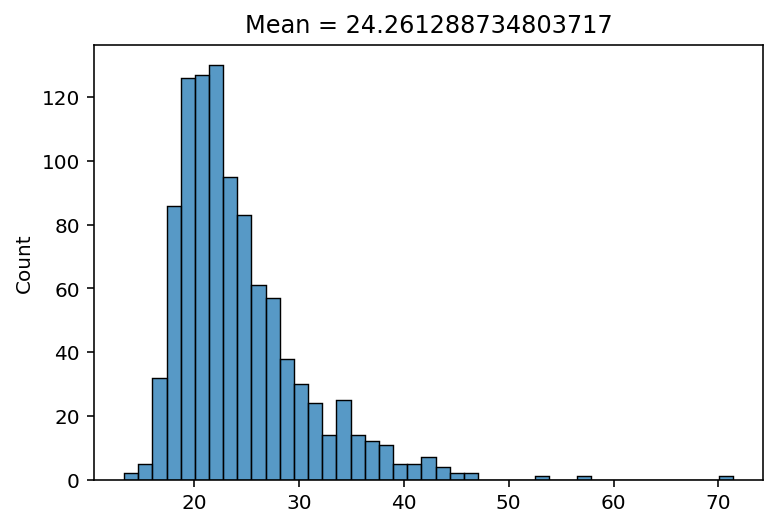
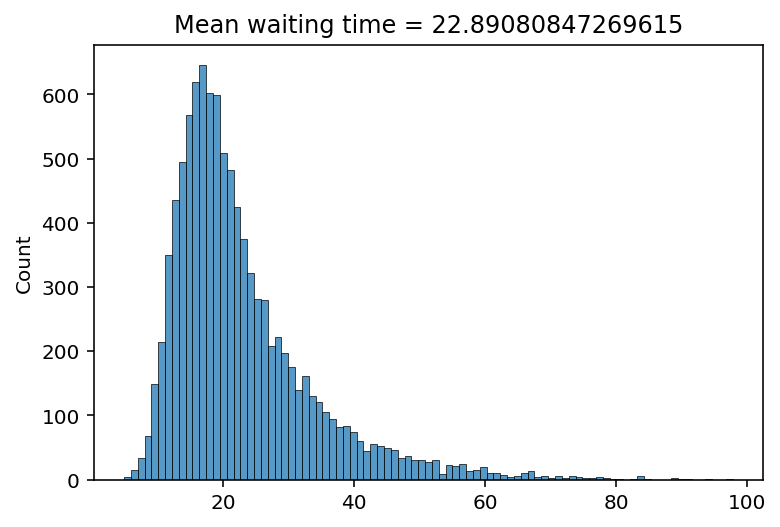
Implemented common random numbers

diff --git a/experiments/sched-sim.html b/experiments/sched-sim.html
@@ -119,6 +119,10 @@ code span.wa { color: #60a0b0; font-weight: bold; font-style: italic; } /* Warni
 
 <section id="setup" class="level2">
 <h2 class="anchored" data-anchor-id="setup">Setup</h2>
+<ul class="task-list">
+<li><input type="checkbox" disabled="">
+Implement common random number option in client generator</li>
+</ul>
 <div class="cell" data-execution_count="1">
 <div class="sourceCode cell-code" id="cb1"><pre class="sourceCode python code-with-copy"><code class="sourceCode python"><span id="cb1-1"><a href="#cb1-1" aria-hidden="true" tabindex="-1"></a><span class="co"># Setup</span></span>
 <span id="cb1-2"><a href="#cb1-2" aria-hidden="true" tabindex="-1"></a><span class="co">## Libraries</span></span>
@@ -129,69 +133,82 @@ code span.wa { color: #60a0b0; font-weight: bold; font-style: italic; } /* Warni
 <span id="cb1-7"><a href="#cb1-7" aria-hidden="true" tabindex="-1"></a></span>
 <span id="cb1-8"><a href="#cb1-8" aria-hidden="true" tabindex="-1"></a><span class="co">## Functions</span></span>
 <span id="cb1-9"><a href="#cb1-9" aria-hidden="true" tabindex="-1"></a></span>
-<span id="cb1-10"><a href="#cb1-10" aria-hidden="true" tabindex="-1"></a><span class="co">### Client generator</span></span>
-<span id="cb1-11"><a href="#cb1-11" aria-hidden="true" tabindex="-1"></a><span class="kw">def</span> generate_client(cts, sts, pct, ns<span class="op">=</span><span class="dv">0</span>):</span>
-<span id="cb1-12"><a href="#cb1-12" aria-hidden="true" tabindex="-1"></a>  ct <span class="op">=</span> np.random.choice(cts, size <span class="op">=</span> <span class="dv">1</span>, p<span class="op">=</span>pct)[<span class="dv">0</span>] <span class="co"># generate random client type</span></span>
-<span id="cb1-13"><a href="#cb1-13" aria-hidden="true" tabindex="-1"></a>  st <span class="op">=</span> np.random.binomial(n<span class="op">=</span><span class="dv">1</span>, p<span class="op">=</span><span class="dv">1</span><span class="op">-</span>ns)<span class="op">*</span>np.random.choice(sts, size <span class="op">=</span> <span class="dv">1</span>)[<span class="dv">0</span>] <span class="co"># generate random service time</span></span>
-<span id="cb1-14"><a href="#cb1-14" aria-hidden="true" tabindex="-1"></a>  <span class="cf">return</span> np.array([ct, st])</span>
-<span id="cb1-15"><a href="#cb1-15" aria-hidden="true" tabindex="-1"></a></span>
-<span id="cb1-16"><a href="#cb1-16" aria-hidden="true" tabindex="-1"></a><span class="co">### Simulation</span></span>
-<span id="cb1-17"><a href="#cb1-17" aria-hidden="true" tabindex="-1"></a></span>
-<span id="cb1-18"><a href="#cb1-18" aria-hidden="true" tabindex="-1"></a><span class="kw">def</span> simulate(iats, cts, sts, pct, ns, logs<span class="op">=</span><span class="va">False</span>):</span>
-<span id="cb1-19"><a href="#cb1-19" aria-hidden="true" tabindex="-1"></a>  wt <span class="op">=</span> <span class="dv">0</span></span>
-<span id="cb1-20"><a href="#cb1-20" aria-hidden="true" tabindex="-1"></a>  wts <span class="op">=</span> []</span>
-<span id="cb1-21"><a href="#cb1-21" aria-hidden="true" tabindex="-1"></a>  <span class="cf">for</span> i <span class="kw">in</span> <span class="bu">range</span>(<span class="bu">len</span>(iats)):</span>
-<span id="cb1-22"><a href="#cb1-22" aria-hidden="true" tabindex="-1"></a>    <span class="cf">if</span>(i <span class="op">!=</span> <span class="dv">0</span>): <span class="co"># don't calculate waiting time for first client in schedule</span></span>
-<span id="cb1-23"><a href="#cb1-23" aria-hidden="true" tabindex="-1"></a>      wt <span class="op">=</span> <span class="bu">max</span>(<span class="dv">0</span>, tis <span class="op">-</span> iats[i]) <span class="co"># calculate waiting time</span></span>
-<span id="cb1-24"><a href="#cb1-24" aria-hidden="true" tabindex="-1"></a>    ct, st <span class="op">=</span> generate_client(cts, sts, pct, ns)</span>
-<span id="cb1-25"><a href="#cb1-25" aria-hidden="true" tabindex="-1"></a>    tis <span class="op">=</span> wt <span class="op">+</span> st <span class="co"># calculate time in system</span></span>
-<span id="cb1-26"><a href="#cb1-26" aria-hidden="true" tabindex="-1"></a>    wts.append(wt)</span>
-<span id="cb1-27"><a href="#cb1-27" aria-hidden="true" tabindex="-1"></a>    <span class="cf">if</span>(logs): <span class="bu">print</span>(iats[i], wt, st, tis, ct)</span>
-<span id="cb1-28"><a href="#cb1-28" aria-hidden="true" tabindex="-1"></a>  <span class="cf">return</span>(np.array(wts))</span>
-<span id="cb1-29"><a href="#cb1-29" aria-hidden="true" tabindex="-1"></a></span>
-<span id="cb1-30"><a href="#cb1-30" aria-hidden="true" tabindex="-1"></a><span class="co">### Lognormal mean and sd / see: https://en.wikipedia.org/wiki/Log-normal_distribution</span></span>
-<span id="cb1-31"><a href="#cb1-31" aria-hidden="true" tabindex="-1"></a></span>
-<span id="cb1-32"><a href="#cb1-32" aria-hidden="true" tabindex="-1"></a><span class="kw">def</span> logn_mean_sd(m, s):</span>
-<span id="cb1-33"><a href="#cb1-33" aria-hidden="true" tabindex="-1"></a>  sigma <span class="op">=</span> np.sqrt(np.log(<span class="dv">1</span> <span class="op">+</span> (s<span class="op">/</span>m)<span class="op">**</span><span class="dv">2</span>))</span>
-<span id="cb1-34"><a href="#cb1-34" aria-hidden="true" tabindex="-1"></a>  mu <span class="op">=</span> np.log(m<span class="op">**</span><span class="dv">2</span> <span class="op">/</span> np.sqrt(m<span class="op">**</span><span class="dv">2</span> <span class="op">+</span> s<span class="op">**</span><span class="dv">2</span>))</span>
-<span id="cb1-35"><a href="#cb1-35" aria-hidden="true" tabindex="-1"></a>  <span class="cf">return</span>([mu, sigma])</span>
+<span id="cb1-10"><a href="#cb1-10" aria-hidden="true" tabindex="-1"></a><span class="co">### Lognormal mean and sd / see: https://en.wikipedia.org/wiki/Log-normal_distribution</span></span>
+<span id="cb1-11"><a href="#cb1-11" aria-hidden="true" tabindex="-1"></a></span>
+<span id="cb1-12"><a href="#cb1-12" aria-hidden="true" tabindex="-1"></a><span class="kw">def</span> logn_mean_sd(m, s):</span>
+<span id="cb1-13"><a href="#cb1-13" aria-hidden="true" tabindex="-1"></a>  sigma <span class="op">=</span> np.sqrt(np.log(<span class="dv">1</span> <span class="op">+</span> (s<span class="op">/</span>m)<span class="op">**</span><span class="dv">2</span>))</span>
+<span id="cb1-14"><a href="#cb1-14" aria-hidden="true" tabindex="-1"></a>  mu <span class="op">=</span> np.log(m<span class="op">**</span><span class="dv">2</span> <span class="op">/</span> np.sqrt(m<span class="op">**</span><span class="dv">2</span> <span class="op">+</span> s<span class="op">**</span><span class="dv">2</span>))</span>
+<span id="cb1-15"><a href="#cb1-15" aria-hidden="true" tabindex="-1"></a>  <span class="cf">return</span>([mu, sigma])</span>
+<span id="cb1-16"><a href="#cb1-16" aria-hidden="true" tabindex="-1"></a></span>
+<span id="cb1-17"><a href="#cb1-17" aria-hidden="true" tabindex="-1"></a><span class="co">### Random lognormal service times generator</span></span>
+<span id="cb1-18"><a href="#cb1-18" aria-hidden="true" tabindex="-1"></a><span class="kw">def</span> generate_logn_sts(s, n, mu, sd):</span>
+<span id="cb1-19"><a href="#cb1-19" aria-hidden="true" tabindex="-1"></a>  sts <span class="op">=</span> np.random.lognormal(mean <span class="op">=</span> logn_mean_sd(mu, sd)[<span class="dv">0</span>], sigma<span class="op">=</span>logn_mean_sd(mu, sd)[<span class="dv">1</span>], size<span class="op">=</span>s <span class="op">*</span> n)</span>
+<span id="cb1-20"><a href="#cb1-20" aria-hidden="true" tabindex="-1"></a>  <span class="cf">return</span> np.reshape(sts, (s, n))</span>
+<span id="cb1-21"><a href="#cb1-21" aria-hidden="true" tabindex="-1"></a></span>
+<span id="cb1-22"><a href="#cb1-22" aria-hidden="true" tabindex="-1"></a><span class="co">##############</span></span>
+<span id="cb1-23"><a href="#cb1-23" aria-hidden="true" tabindex="-1"></a><span class="co">#### </span><span class="al">TEST</span><span class="co"> ####</span></span>
+<span id="cb1-24"><a href="#cb1-24" aria-hidden="true" tabindex="-1"></a>generate_logn_sts(<span class="dv">5</span>, <span class="dv">5</span>, <span class="dv">14</span>, <span class="dv">10</span>)</span>
+<span id="cb1-25"><a href="#cb1-25" aria-hidden="true" tabindex="-1"></a>generate_logn_sts(<span class="dv">1</span>, <span class="dv">8</span>, <span class="dv">14</span>, <span class="dv">10</span>)</span>
+<span id="cb1-26"><a href="#cb1-26" aria-hidden="true" tabindex="-1"></a></span>
+<span id="cb1-27"><a href="#cb1-27" aria-hidden="true" tabindex="-1"></a><span class="co">##############</span></span>
+<span id="cb1-28"><a href="#cb1-28" aria-hidden="true" tabindex="-1"></a></span>
+<span id="cb1-29"><a href="#cb1-29" aria-hidden="true" tabindex="-1"></a><span class="co">### Client generator</span></span>
+<span id="cb1-30"><a href="#cb1-30" aria-hidden="true" tabindex="-1"></a><span class="kw">def</span> generate_client(cts, sts, pct, ns<span class="op">=</span><span class="dv">0</span>):</span>
+<span id="cb1-31"><a href="#cb1-31" aria-hidden="true" tabindex="-1"></a>  ct <span class="op">=</span> np.random.choice(cts, size <span class="op">=</span> <span class="dv">1</span>, p<span class="op">=</span>pct)[<span class="dv">0</span>] <span class="co"># generate random client type</span></span>
+<span id="cb1-32"><a href="#cb1-32" aria-hidden="true" tabindex="-1"></a>  st <span class="op">=</span> np.random.binomial(n<span class="op">=</span><span class="dv">1</span>, p<span class="op">=</span><span class="dv">1</span><span class="op">-</span>ns)<span class="op">*</span>np.random.choice(sts, size <span class="op">=</span> <span class="dv">1</span>)[<span class="dv">0</span>] <span class="co"># generate random service time</span></span>
+<span id="cb1-33"><a href="#cb1-33" aria-hidden="true" tabindex="-1"></a>  <span class="cf">return</span> np.array([ct, st])</span>
+<span id="cb1-34"><a href="#cb1-34" aria-hidden="true" tabindex="-1"></a></span>
+<span id="cb1-35"><a href="#cb1-35" aria-hidden="true" tabindex="-1"></a><span class="co">### Simulation</span></span>
 <span id="cb1-36"><a href="#cb1-36" aria-hidden="true" tabindex="-1"></a></span>
-<span id="cb1-37"><a href="#cb1-37" aria-hidden="true" tabindex="-1"></a><span class="co">## Variables</span></span>
-<span id="cb1-38"><a href="#cb1-38" aria-hidden="true" tabindex="-1"></a></span>
-<span id="cb1-39"><a href="#cb1-39" aria-hidden="true" tabindex="-1"></a>cts <span class="op">=</span> np.array([<span class="dv">0</span>, <span class="dv">1</span>]) <span class="co"># client types</span></span>
-<span id="cb1-40"><a href="#cb1-40" aria-hidden="true" tabindex="-1"></a>pct <span class="op">=</span> np.array([<span class="dv">1</span>, <span class="dv">0</span>]) <span class="co"># distribution of client types - normal / emergency</span></span>
-<span id="cb1-41"><a href="#cb1-41" aria-hidden="true" tabindex="-1"></a><span class="co"># sts = np.array([14, 14, 14, 15, 16]) # service times</span></span>
-<span id="cb1-42"><a href="#cb1-42" aria-hidden="true" tabindex="-1"></a><span class="co"># sts = np.random.poisson(lam=14, size=1000)</span></span>
-<span id="cb1-43"><a href="#cb1-43" aria-hidden="true" tabindex="-1"></a>sts <span class="op">=</span> np.random.lognormal(mean <span class="op">=</span> logn_mean_sd(<span class="dv">14</span>, <span class="dv">5</span>)[<span class="dv">0</span>], sigma<span class="op">=</span>logn_mean_sd(<span class="dv">14</span>, <span class="dv">5</span>)[<span class="dv">1</span>], size<span class="op">=</span><span class="dv">1000</span>)</span>
-<span id="cb1-44"><a href="#cb1-44" aria-hidden="true" tabindex="-1"></a>ns <span class="op">=</span> <span class="fl">0.0</span></span>
-<span id="cb1-45"><a href="#cb1-45" aria-hidden="true" tabindex="-1"></a>nSims <span class="op">=</span> <span class="dv">1000</span> <span class="co"># number of simulations</span></span>
-<span id="cb1-46"><a href="#cb1-46" aria-hidden="true" tabindex="-1"></a>logs <span class="op">=</span> <span class="va">False</span></span></code><button title="Copy to Clipboard" class="code-copy-button"><i class="bi"></i></button></pre></div>
+<span id="cb1-37"><a href="#cb1-37" aria-hidden="true" tabindex="-1"></a><span class="kw">def</span> simulate(iats, cts, sts, pct, ns, logs<span class="op">=</span><span class="va">False</span>):</span>
+<span id="cb1-38"><a href="#cb1-38" aria-hidden="true" tabindex="-1"></a>  wt <span class="op">=</span> <span class="dv">0</span></span>
+<span id="cb1-39"><a href="#cb1-39" aria-hidden="true" tabindex="-1"></a>  wts <span class="op">=</span> []</span>
+<span id="cb1-40"><a href="#cb1-40" aria-hidden="true" tabindex="-1"></a>  <span class="cf">for</span> i <span class="kw">in</span> <span class="bu">range</span>(<span class="bu">len</span>(iats)):</span>
+<span id="cb1-41"><a href="#cb1-41" aria-hidden="true" tabindex="-1"></a>    <span class="cf">if</span>(i <span class="op">!=</span> <span class="dv">0</span>): <span class="co"># don't calculate waiting time for first client in schedule</span></span>
+<span id="cb1-42"><a href="#cb1-42" aria-hidden="true" tabindex="-1"></a>      wt <span class="op">=</span> <span class="bu">max</span>(<span class="dv">0</span>, tis <span class="op">-</span> iats[i]) <span class="co"># calculate waiting time</span></span>
+<span id="cb1-43"><a href="#cb1-43" aria-hidden="true" tabindex="-1"></a>    ct, st <span class="op">=</span> generate_client(cts, sts, pct, ns)</span>
+<span id="cb1-44"><a href="#cb1-44" aria-hidden="true" tabindex="-1"></a>    tis <span class="op">=</span> wt <span class="op">+</span> st <span class="co"># calculate time in system</span></span>
+<span id="cb1-45"><a href="#cb1-45" aria-hidden="true" tabindex="-1"></a>    wts.append(wt)</span>
+<span id="cb1-46"><a href="#cb1-46" aria-hidden="true" tabindex="-1"></a>    <span class="cf">if</span>(logs): <span class="bu">print</span>(iats[i], wt, st, tis, ct)</span>
+<span id="cb1-47"><a href="#cb1-47" aria-hidden="true" tabindex="-1"></a>  <span class="cf">return</span>(np.array(wts))</span>
+<span id="cb1-48"><a href="#cb1-48" aria-hidden="true" tabindex="-1"></a></span>
+<span id="cb1-49"><a href="#cb1-49" aria-hidden="true" tabindex="-1"></a><span class="co">## Variables</span></span>
+<span id="cb1-50"><a href="#cb1-50" aria-hidden="true" tabindex="-1"></a></span>
+<span id="cb1-51"><a href="#cb1-51" aria-hidden="true" tabindex="-1"></a>cts <span class="op">=</span> np.array([<span class="dv">0</span>, <span class="dv">1</span>]) <span class="co"># client types</span></span>
+<span id="cb1-52"><a href="#cb1-52" aria-hidden="true" tabindex="-1"></a>pct <span class="op">=</span> np.array([<span class="dv">1</span>, <span class="dv">0</span>]) <span class="co"># distribution of client types - normal / emergency</span></span>
+<span id="cb1-53"><a href="#cb1-53" aria-hidden="true" tabindex="-1"></a><span class="co"># sts = np.array([14, 14, 14, 15, 16]) # service times</span></span>
+<span id="cb1-54"><a href="#cb1-54" aria-hidden="true" tabindex="-1"></a><span class="co"># sts = np.random.poisson(lam=14, size=1000)</span></span>
+<span id="cb1-55"><a href="#cb1-55" aria-hidden="true" tabindex="-1"></a></span>
+<span id="cb1-56"><a href="#cb1-56" aria-hidden="true" tabindex="-1"></a>ns <span class="op">=</span> <span class="fl">0.1</span></span>
+<span id="cb1-57"><a href="#cb1-57" aria-hidden="true" tabindex="-1"></a>nSims <span class="op">=</span> <span class="dv">10000</span> <span class="co"># number of simulations</span></span>
+<span id="cb1-58"><a href="#cb1-58" aria-hidden="true" tabindex="-1"></a>logs <span class="op">=</span> <span class="va">False</span></span></code><button title="Copy to Clipboard" class="code-copy-button"><i class="bi"></i></button></pre></div>
 </div>
 </section>
 <section id="run-simulation-1" class="level2">
 <h2 class="anchored" data-anchor-id="run-simulation-1">Run simulation 1</h2>
 <p><img src="images/slideger1.png" class="img-fluid"></p>
 <div class="cell" data-execution_count="2">
-<div class="sourceCode cell-code" id="cb2"><pre class="sourceCode python code-with-copy"><code class="sourceCode python"><span id="cb2-1"><a href="#cb2-1" aria-hidden="true" tabindex="-1"></a>iats <span class="op">=</span> np.array([<span class="dv">0</span>, <span class="dv">15</span>, <span class="dv">15</span>, <span class="dv">15</span>, <span class="dv">15</span>, <span class="dv">15</span>, <span class="dv">15</span>, <span class="dv">15</span>, <span class="dv">15</span>, <span class="dv">15</span>, <span class="dv">15</span>, <span class="dv">15</span>]) <span class="co"># inter-arrival times</span></span>
-<span id="cb2-2"><a href="#cb2-2" aria-hidden="true" tabindex="-1"></a></span>
-<span id="cb2-3"><a href="#cb2-3" aria-hidden="true" tabindex="-1"></a>nSims <span class="op">=</span> nSims <span class="co"># number of simulations</span></span>
-<span id="cb2-4"><a href="#cb2-4" aria-hidden="true" tabindex="-1"></a>simRes <span class="op">=</span> [] <span class="co"># array for saving simulation results</span></span>
-<span id="cb2-5"><a href="#cb2-5" aria-hidden="true" tabindex="-1"></a></span>
-<span id="cb2-6"><a href="#cb2-6" aria-hidden="true" tabindex="-1"></a><span class="co"># run simulations</span></span>
-<span id="cb2-7"><a href="#cb2-7" aria-hidden="true" tabindex="-1"></a><span class="cf">for</span> s <span class="kw">in</span> <span class="bu">range</span>(nSims):</span>
-<span id="cb2-8"><a href="#cb2-8" aria-hidden="true" tabindex="-1"></a>  experiment <span class="op">=</span> simulate(iats, cts, sts, pct, ns, logs<span class="op">=</span>logs)</span>
-<span id="cb2-9"><a href="#cb2-9" aria-hidden="true" tabindex="-1"></a>  simRes.append(experiment.mean())</span>
-<span id="cb2-10"><a href="#cb2-10" aria-hidden="true" tabindex="-1"></a>  </span>
-<span id="cb2-11"><a href="#cb2-11" aria-hidden="true" tabindex="-1"></a>mwt <span class="op">=</span> np.array(simRes).mean()</span></code><button title="Copy to Clipboard" class="code-copy-button"><i class="bi"></i></button></pre></div>
+<div class="sourceCode cell-code" id="cb2"><pre class="sourceCode python code-with-copy"><code class="sourceCode python"><span id="cb2-1"><a href="#cb2-1" aria-hidden="true" tabindex="-1"></a>sts <span class="op">=</span> generate_logn_sts(<span class="dv">1</span>, <span class="dv">1000</span>, <span class="dv">14</span>, <span class="dv">5</span>)[<span class="dv">0</span>]</span>
+<span id="cb2-2"><a href="#cb2-2" aria-hidden="true" tabindex="-1"></a>iats <span class="op">=</span> np.array([<span class="dv">0</span>, <span class="dv">15</span>, <span class="dv">15</span>, <span class="dv">15</span>, <span class="dv">15</span>, <span class="dv">15</span>, <span class="dv">15</span>, <span class="dv">15</span>, <span class="dv">15</span>, <span class="dv">15</span>, <span class="dv">15</span>, <span class="dv">15</span>]) <span class="co"># inter-arrival times</span></span>
+<span id="cb2-3"><a href="#cb2-3" aria-hidden="true" tabindex="-1"></a></span>
+<span id="cb2-4"><a href="#cb2-4" aria-hidden="true" tabindex="-1"></a>nSims <span class="op">=</span> nSims <span class="co"># number of simulations</span></span>
+<span id="cb2-5"><a href="#cb2-5" aria-hidden="true" tabindex="-1"></a>simRes <span class="op">=</span> [] <span class="co"># array for saving simulation results</span></span>
+<span id="cb2-6"><a href="#cb2-6" aria-hidden="true" tabindex="-1"></a></span>
+<span id="cb2-7"><a href="#cb2-7" aria-hidden="true" tabindex="-1"></a><span class="co"># run simulations</span></span>
+<span id="cb2-8"><a href="#cb2-8" aria-hidden="true" tabindex="-1"></a><span class="cf">for</span> s <span class="kw">in</span> <span class="bu">range</span>(nSims):</span>
+<span id="cb2-9"><a href="#cb2-9" aria-hidden="true" tabindex="-1"></a>  experiment <span class="op">=</span> simulate(iats, cts, sts, pct, ns, logs<span class="op">=</span>logs)</span>
+<span id="cb2-10"><a href="#cb2-10" aria-hidden="true" tabindex="-1"></a>  simRes.append(experiment.mean())</span>
+<span id="cb2-11"><a href="#cb2-11" aria-hidden="true" tabindex="-1"></a>  </span>
+<span id="cb2-12"><a href="#cb2-12" aria-hidden="true" tabindex="-1"></a>mwt <span class="op">=</span> np.array(simRes).mean()</span></code><button title="Copy to Clipboard" class="code-copy-button"><i class="bi"></i></button></pre></div>
 </div>
 </section>
 <section id="plot-results" class="level2">
 <h2 class="anchored" data-anchor-id="plot-results">Plot results</h2>
 <div class="cell" data-execution_count="3">
 <div class="sourceCode cell-code" id="cb3"><pre class="sourceCode python code-with-copy"><code class="sourceCode python"><span id="cb3-1"><a href="#cb3-1" aria-hidden="true" tabindex="-1"></a>fig <span class="op">=</span> sns.histplot(simRes)</span>
-<span id="cb3-2"><a href="#cb3-2" aria-hidden="true" tabindex="-1"></a>fig.<span class="bu">set</span>(title<span class="op">=</span><span class="ss">f"Mean = </span><span class="sc">{</span>mwt<span class="sc">}</span><span class="ss">"</span>)</span></code><button title="Copy to Clipboard" class="code-copy-button"><i class="bi"></i></button></pre></div>
+<span id="cb3-2"><a href="#cb3-2" aria-hidden="true" tabindex="-1"></a>fig.<span class="bu">set</span>(title<span class="op">=</span><span class="ss">f"Mean waiting time= </span><span class="sc">{</span>mwt<span class="sc">}</span><span class="ss">"</span>)</span></code><button title="Copy to Clipboard" class="code-copy-button"><i class="bi"></i></button></pre></div>
 <div class="cell-output cell-output-display" data-execution_count="3">
-<pre><code>[Text(0.5, 1.0, 'Mean = 5.260081093035237')]</code></pre>
+<pre><code>[Text(0.5, 1.0, 'Mean waiting time= 3.353456693946278')]</code></pre>
 </div>
 <div class="cell-output cell-output-display">
 <p><img src="sched-sim_files/figure-html/cell-4-output-2.png" class="img-fluid"></p>
@@ -202,26 +219,27 @@ code span.wa { color: #60a0b0; font-weight: bold; font-style: italic; } /* Warni
 <h2 class="anchored" data-anchor-id="run-simulation-2">Run simulation 2</h2>
 <p><img src="images/slideger2.png" class="img-fluid"></p>
 <div class="cell" data-execution_count="4">
-<div class="sourceCode cell-code" id="cb5"><pre class="sourceCode python code-with-copy"><code class="sourceCode python"><span id="cb5-1"><a href="#cb5-1" aria-hidden="true" tabindex="-1"></a>iats <span class="op">=</span> np.array([<span class="dv">0</span>, <span class="dv">0</span>, <span class="dv">15</span>, <span class="dv">15</span>, <span class="dv">15</span>, <span class="dv">15</span>, <span class="dv">15</span>, <span class="dv">15</span>, <span class="dv">15</span>, <span class="dv">15</span>, <span class="dv">15</span>, <span class="dv">15</span>]) <span class="co"># inter-arrival times</span></span>
-<span id="cb5-2"><a href="#cb5-2" aria-hidden="true" tabindex="-1"></a></span>
-<span id="cb5-3"><a href="#cb5-3" aria-hidden="true" tabindex="-1"></a>nSims <span class="op">=</span> nSims <span class="co"># number of simulations</span></span>
-<span id="cb5-4"><a href="#cb5-4" aria-hidden="true" tabindex="-1"></a>simRes <span class="op">=</span> [] <span class="co"># array for saving simulation results</span></span>
-<span id="cb5-5"><a href="#cb5-5" aria-hidden="true" tabindex="-1"></a></span>
-<span id="cb5-6"><a href="#cb5-6" aria-hidden="true" tabindex="-1"></a><span class="co"># run simulations</span></span>
-<span id="cb5-7"><a href="#cb5-7" aria-hidden="true" tabindex="-1"></a><span class="cf">for</span> s <span class="kw">in</span> <span class="bu">range</span>(nSims):</span>
-<span id="cb5-8"><a href="#cb5-8" aria-hidden="true" tabindex="-1"></a>  experiment <span class="op">=</span> simulate(iats, cts, sts, pct, ns, logs<span class="op">=</span>logs)</span>
-<span id="cb5-9"><a href="#cb5-9" aria-hidden="true" tabindex="-1"></a>  simRes.append(experiment.mean())</span>
-<span id="cb5-10"><a href="#cb5-10" aria-hidden="true" tabindex="-1"></a></span>
-<span id="cb5-11"><a href="#cb5-11" aria-hidden="true" tabindex="-1"></a>mwt <span class="op">=</span> np.array(simRes).mean()</span></code><button title="Copy to Clipboard" class="code-copy-button"><i class="bi"></i></button></pre></div>
+<div class="sourceCode cell-code" id="cb5"><pre class="sourceCode python code-with-copy"><code class="sourceCode python"><span id="cb5-1"><a href="#cb5-1" aria-hidden="true" tabindex="-1"></a>sts <span class="op">=</span> generate_logn_sts(<span class="dv">1</span>, <span class="dv">1000</span>, <span class="dv">14</span>, <span class="dv">10</span>)[<span class="dv">0</span>]</span>
+<span id="cb5-2"><a href="#cb5-2" aria-hidden="true" tabindex="-1"></a>iats <span class="op">=</span> np.array([<span class="dv">0</span>, <span class="dv">0</span>, <span class="dv">15</span>, <span class="dv">15</span>, <span class="dv">15</span>, <span class="dv">15</span>, <span class="dv">15</span>, <span class="dv">15</span>, <span class="dv">15</span>, <span class="dv">15</span>, <span class="dv">15</span>, <span class="dv">15</span>]) <span class="co"># inter-arrival times</span></span>
+<span id="cb5-3"><a href="#cb5-3" aria-hidden="true" tabindex="-1"></a></span>
+<span id="cb5-4"><a href="#cb5-4" aria-hidden="true" tabindex="-1"></a>nSims <span class="op">=</span> nSims <span class="co"># number of simulations</span></span>
+<span id="cb5-5"><a href="#cb5-5" aria-hidden="true" tabindex="-1"></a>simRes <span class="op">=</span> [] <span class="co"># array for saving simulation results</span></span>
+<span id="cb5-6"><a href="#cb5-6" aria-hidden="true" tabindex="-1"></a></span>
+<span id="cb5-7"><a href="#cb5-7" aria-hidden="true" tabindex="-1"></a><span class="co"># run simulations</span></span>
+<span id="cb5-8"><a href="#cb5-8" aria-hidden="true" tabindex="-1"></a><span class="cf">for</span> s <span class="kw">in</span> <span class="bu">range</span>(nSims):</span>
+<span id="cb5-9"><a href="#cb5-9" aria-hidden="true" tabindex="-1"></a>  experiment <span class="op">=</span> simulate(iats, cts, sts, pct, ns, logs<span class="op">=</span>logs)</span>
+<span id="cb5-10"><a href="#cb5-10" aria-hidden="true" tabindex="-1"></a>  simRes.append(experiment.mean())</span>
+<span id="cb5-11"><a href="#cb5-11" aria-hidden="true" tabindex="-1"></a></span>
+<span id="cb5-12"><a href="#cb5-12" aria-hidden="true" tabindex="-1"></a>mwt <span class="op">=</span> np.array(simRes).mean()</span></code><button title="Copy to Clipboard" class="code-copy-button"><i class="bi"></i></button></pre></div>
 </div>
 </section>
 <section id="plot-results-1" class="level2">
 <h2 class="anchored" data-anchor-id="plot-results-1">Plot results</h2>
 <div class="cell" data-execution_count="5">
 <div class="sourceCode cell-code" id="cb6"><pre class="sourceCode python code-with-copy"><code class="sourceCode python"><span id="cb6-1"><a href="#cb6-1" aria-hidden="true" tabindex="-1"></a>fig <span class="op">=</span> sns.histplot(simRes)</span>
-<span id="cb6-2"><a href="#cb6-2" aria-hidden="true" tabindex="-1"></a>fig.<span class="bu">set</span>(title<span class="op">=</span><span class="ss">f"Mean = </span><span class="sc">{</span>mwt<span class="sc">}</span><span class="ss">"</span>)</span></code><button title="Copy to Clipboard" class="code-copy-button"><i class="bi"></i></button></pre></div>
+<span id="cb6-2"><a href="#cb6-2" aria-hidden="true" tabindex="-1"></a>fig.<span class="bu">set</span>(title<span class="op">=</span><span class="ss">f"Mean waiting time = </span><span class="sc">{</span>mwt<span class="sc">}</span><span class="ss">"</span>)</span></code><button title="Copy to Clipboard" class="code-copy-button"><i class="bi"></i></button></pre></div>
 <div class="cell-output cell-output-display" data-execution_count="5">
-<pre><code>[Text(0.5, 1.0, 'Mean = 11.46664231641217')]</code></pre>
+<pre><code>[Text(0.5, 1.0, 'Mean waiting time = 9.853078182007131')]</code></pre>
 </div>
 <div class="cell-output cell-output-display">
 <p><img src="sched-sim_files/figure-html/cell-6-output-2.png" class="img-fluid"></p>
@@ -232,26 +250,27 @@ code span.wa { color: #60a0b0; font-weight: bold; font-style: italic; } /* Warni
 <h2 class="anchored" data-anchor-id="run-simulation-3">Run simulation 3</h2>
 <p><img src="images/slideger3.png" class="img-fluid"></p>
 <div class="cell" data-execution_count="6">
-<div class="sourceCode cell-code" id="cb8"><pre class="sourceCode python code-with-copy"><code class="sourceCode python"><span id="cb8-1"><a href="#cb8-1" aria-hidden="true" tabindex="-1"></a>iats <span class="op">=</span> np.array([<span class="dv">0</span>, <span class="dv">0</span>, <span class="dv">0</span>, <span class="dv">0</span>, <span class="dv">60</span>, <span class="dv">0</span>, <span class="dv">0</span>, <span class="dv">0</span>, <span class="dv">60</span>, <span class="dv">0</span>, <span class="dv">0</span>, <span class="dv">0</span>]) <span class="co"># inter-arrival times</span></span>
-<span id="cb8-2"><a href="#cb8-2" aria-hidden="true" tabindex="-1"></a></span>
-<span id="cb8-3"><a href="#cb8-3" aria-hidden="true" tabindex="-1"></a>nSims <span class="op">=</span> nSims <span class="co"># number of simulations</span></span>
-<span id="cb8-4"><a href="#cb8-4" aria-hidden="true" tabindex="-1"></a>simRes <span class="op">=</span> [] <span class="co"># array for saving simulation results</span></span>
-<span id="cb8-5"><a href="#cb8-5" aria-hidden="true" tabindex="-1"></a></span>
-<span id="cb8-6"><a href="#cb8-6" aria-hidden="true" tabindex="-1"></a><span class="co"># run simulations</span></span>
-<span id="cb8-7"><a href="#cb8-7" aria-hidden="true" tabindex="-1"></a><span class="cf">for</span> s <span class="kw">in</span> <span class="bu">range</span>(nSims):</span>
-<span id="cb8-8"><a href="#cb8-8" aria-hidden="true" tabindex="-1"></a>  experiment <span class="op">=</span> simulate(iats, cts, sts, pct, ns, logs<span class="op">=</span>logs)</span>
-<span id="cb8-9"><a href="#cb8-9" aria-hidden="true" tabindex="-1"></a>  simRes.append(experiment.mean())</span>
-<span id="cb8-10"><a href="#cb8-10" aria-hidden="true" tabindex="-1"></a>  </span>
-<span id="cb8-11"><a href="#cb8-11" aria-hidden="true" tabindex="-1"></a>mwt <span class="op">=</span> np.array(simRes).mean()</span></code><button title="Copy to Clipboard" class="code-copy-button"><i class="bi"></i></button></pre></div>
+<div class="sourceCode cell-code" id="cb8"><pre class="sourceCode python code-with-copy"><code class="sourceCode python"><span id="cb8-1"><a href="#cb8-1" aria-hidden="true" tabindex="-1"></a>sts <span class="op">=</span> generate_logn_sts(<span class="dv">1</span>, <span class="dv">1000</span>, <span class="dv">14</span>, <span class="dv">10</span>)[<span class="dv">0</span>]</span>
+<span id="cb8-2"><a href="#cb8-2" aria-hidden="true" tabindex="-1"></a>iats <span class="op">=</span> np.array([<span class="dv">0</span>, <span class="dv">0</span>, <span class="dv">0</span>, <span class="dv">0</span>, <span class="dv">60</span>, <span class="dv">0</span>, <span class="dv">0</span>, <span class="dv">0</span>, <span class="dv">60</span>, <span class="dv">0</span>, <span class="dv">0</span>, <span class="dv">0</span>]) <span class="co"># inter-arrival times</span></span>
+<span id="cb8-3"><a href="#cb8-3" aria-hidden="true" tabindex="-1"></a></span>
+<span id="cb8-4"><a href="#cb8-4" aria-hidden="true" tabindex="-1"></a>nSims <span class="op">=</span> nSims <span class="co"># number of simulations</span></span>
+<span id="cb8-5"><a href="#cb8-5" aria-hidden="true" tabindex="-1"></a>simRes <span class="op">=</span> [] <span class="co"># array for saving simulation results</span></span>
+<span id="cb8-6"><a href="#cb8-6" aria-hidden="true" tabindex="-1"></a></span>
+<span id="cb8-7"><a href="#cb8-7" aria-hidden="true" tabindex="-1"></a><span class="co"># run simulations</span></span>
+<span id="cb8-8"><a href="#cb8-8" aria-hidden="true" tabindex="-1"></a><span class="cf">for</span> s <span class="kw">in</span> <span class="bu">range</span>(nSims):</span>
+<span id="cb8-9"><a href="#cb8-9" aria-hidden="true" tabindex="-1"></a>  experiment <span class="op">=</span> simulate(iats, cts, sts, pct, ns, logs<span class="op">=</span>logs)</span>
+<span id="cb8-10"><a href="#cb8-10" aria-hidden="true" tabindex="-1"></a>  simRes.append(experiment.mean())</span>
+<span id="cb8-11"><a href="#cb8-11" aria-hidden="true" tabindex="-1"></a>  </span>
+<span id="cb8-12"><a href="#cb8-12" aria-hidden="true" tabindex="-1"></a>mwt <span class="op">=</span> np.array(simRes).mean()</span></code><button title="Copy to Clipboard" class="code-copy-button"><i class="bi"></i></button></pre></div>
 </div>
 </section>
 <section id="plot-results-2" class="level2">
 <h2 class="anchored" data-anchor-id="plot-results-2">Plot results</h2>
 <div class="cell" data-execution_count="7">
 <div class="sourceCode cell-code" id="cb9"><pre class="sourceCode python code-with-copy"><code class="sourceCode python"><span id="cb9-1"><a href="#cb9-1" aria-hidden="true" tabindex="-1"></a>fig <span class="op">=</span> sns.histplot(simRes)</span>
-<span id="cb9-2"><a href="#cb9-2" aria-hidden="true" tabindex="-1"></a>fig.<span class="bu">set</span>(title<span class="op">=</span><span class="ss">f"Mean = </span><span class="sc">{</span>mwt<span class="sc">}</span><span class="ss">"</span>)</span></code><button title="Copy to Clipboard" class="code-copy-button"><i class="bi"></i></button></pre></div>
+<span id="cb9-2"><a href="#cb9-2" aria-hidden="true" tabindex="-1"></a>fig.<span class="bu">set</span>(title<span class="op">=</span><span class="ss">f"Mean waiting time = </span><span class="sc">{</span>mwt<span class="sc">}</span><span class="ss">"</span>)</span></code><button title="Copy to Clipboard" class="code-copy-button"><i class="bi"></i></button></pre></div>
 <div class="cell-output cell-output-display" data-execution_count="7">
-<pre><code>[Text(0.5, 1.0, 'Mean = 24.261288734803717')]</code></pre>
+<pre><code>[Text(0.5, 1.0, 'Mean waiting time = 22.89080847269615')]</code></pre>
 </div>
 <div class="cell-output cell-output-display">
 <p><img src="sched-sim_files/figure-html/cell-8-output-2.png" class="img-fluid"></p>
